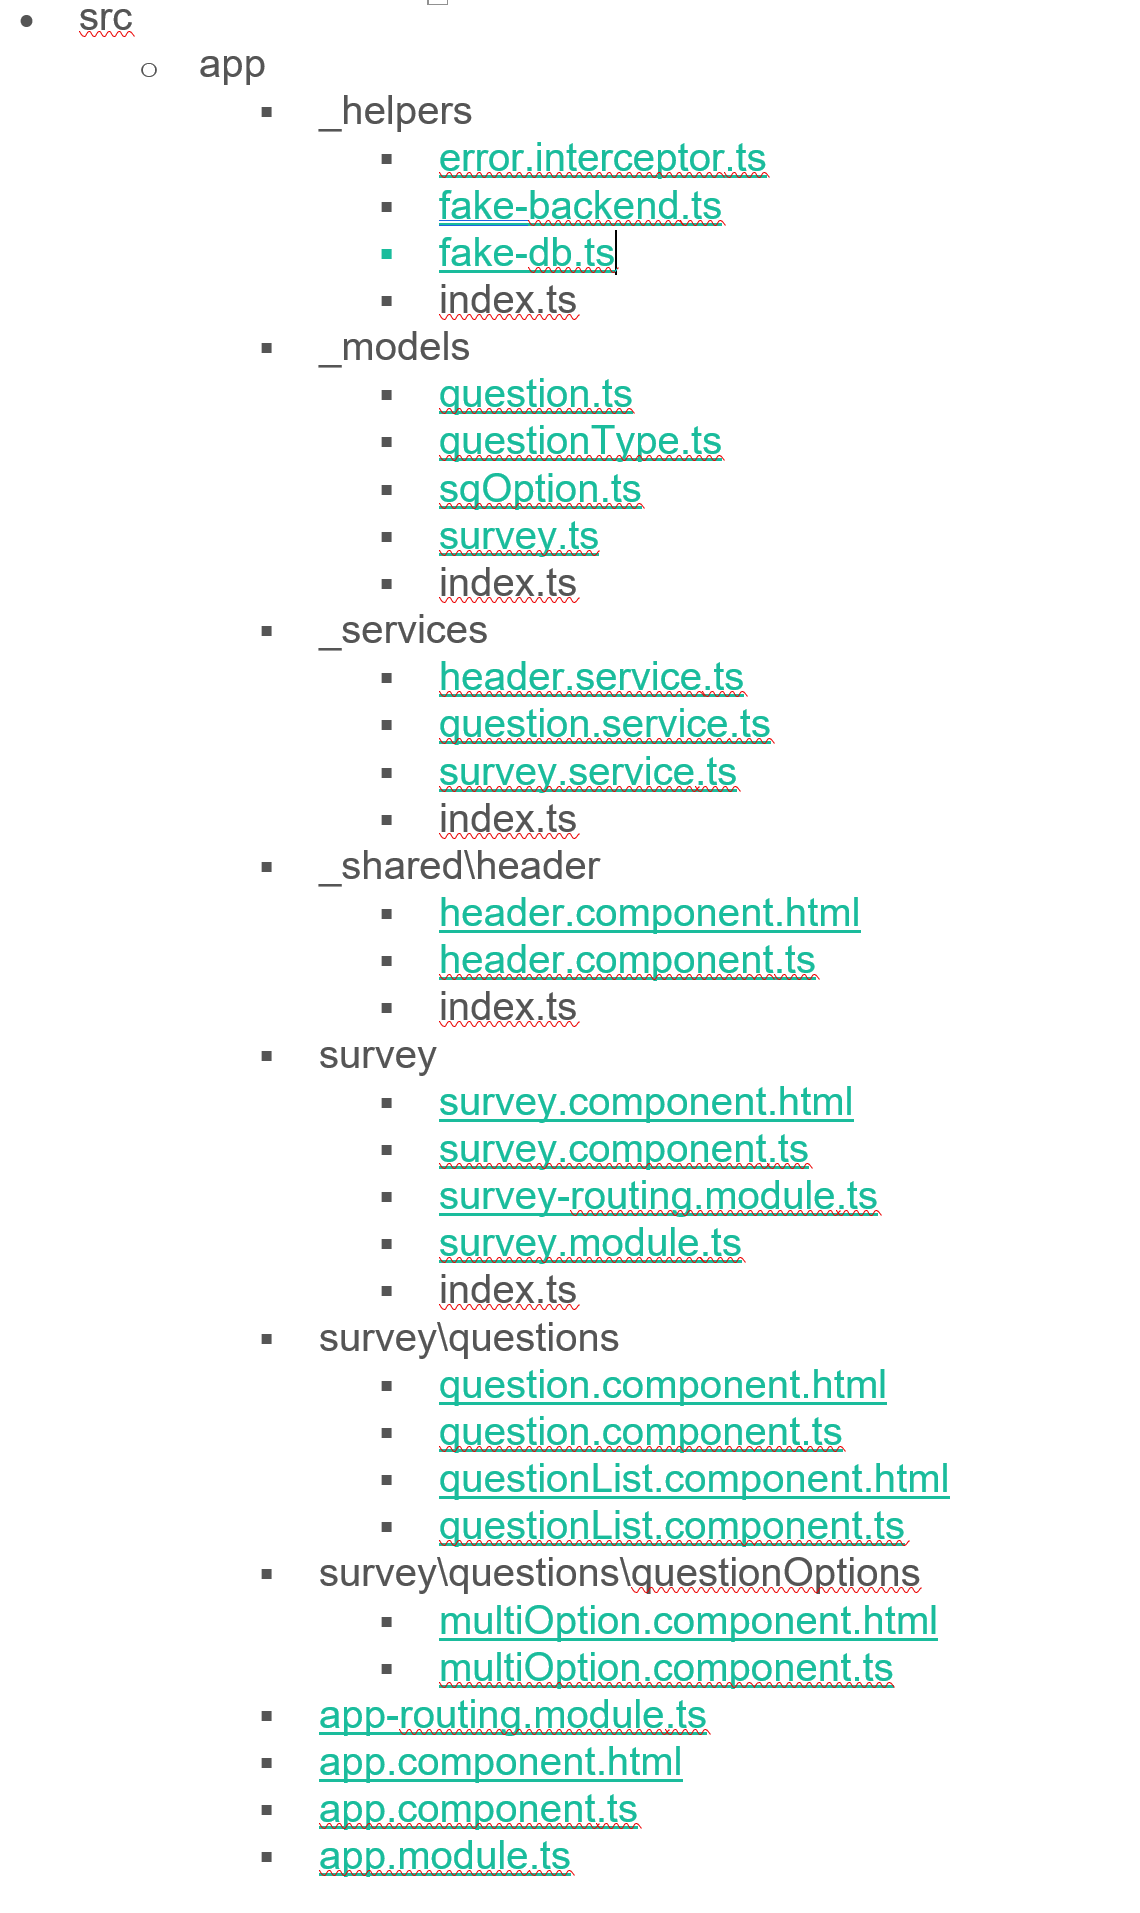
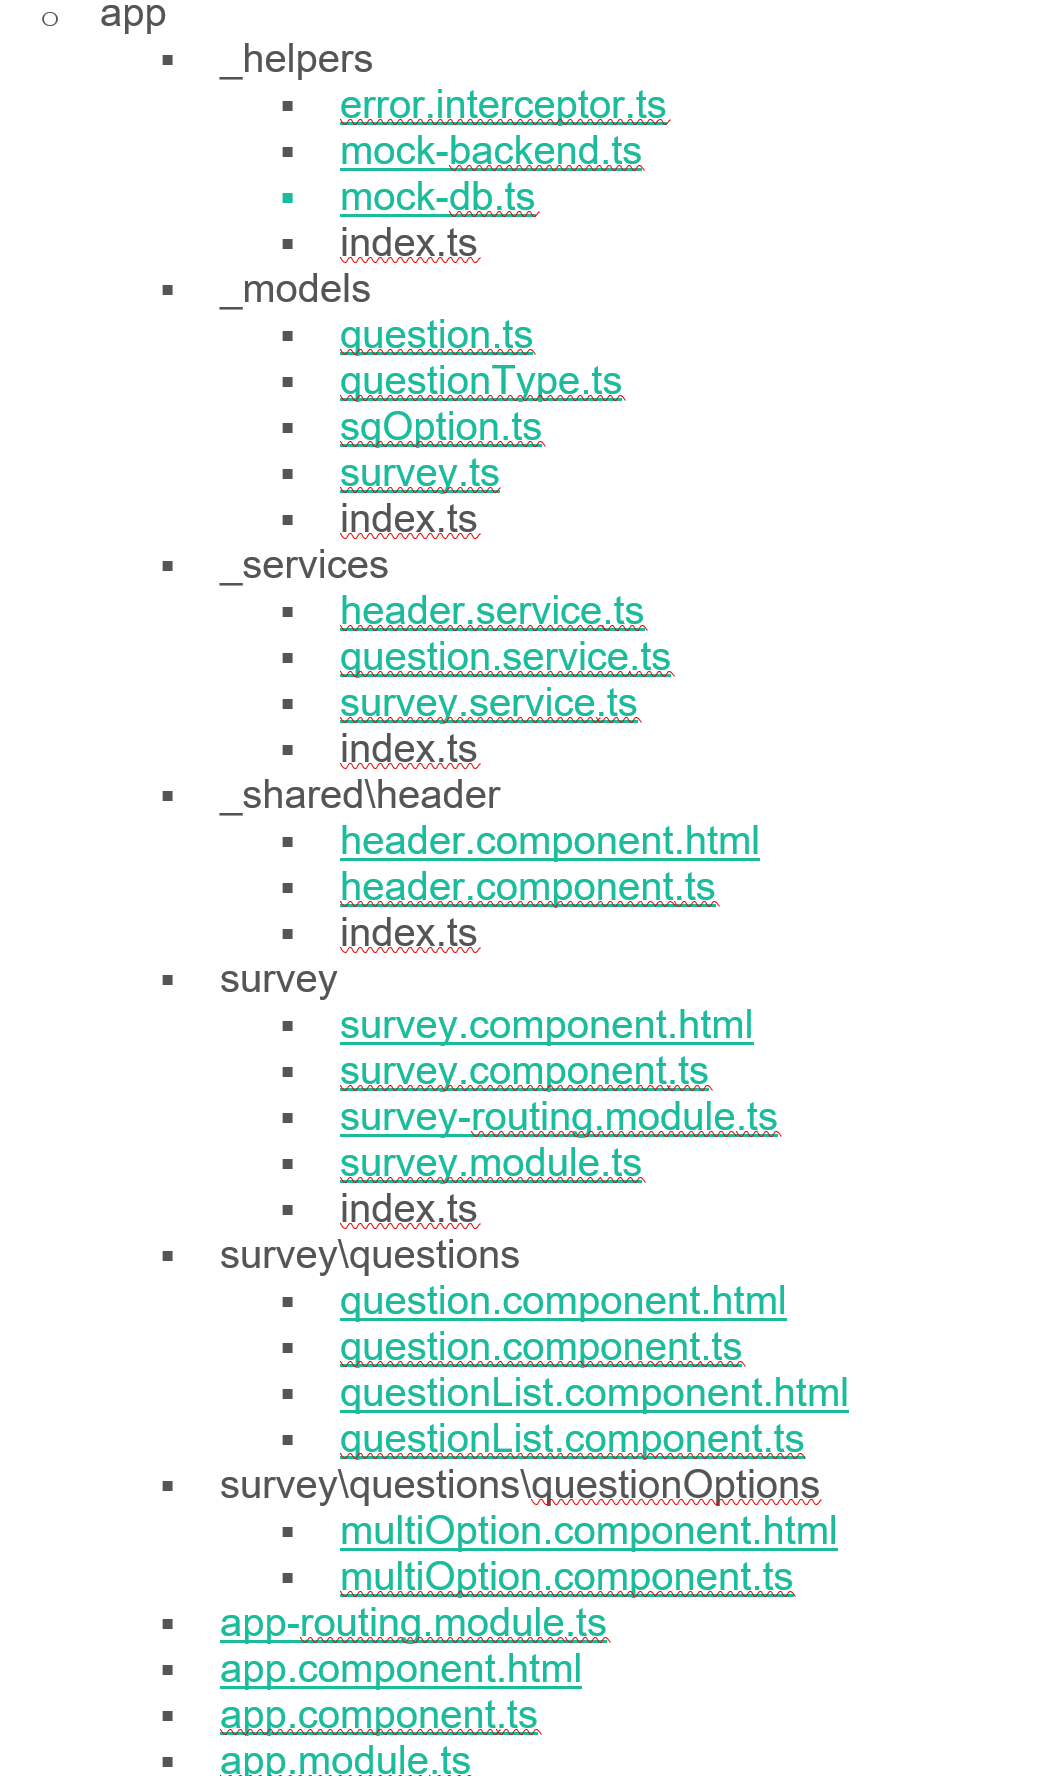
Updated the README.md

Changed region(s): [[0.1528, 0.031, 0.8252, 1.0], [0.0611, 0.0, 0.1528, 0.031], [0.1528, 0.991, 0.1834, 1.0]]

diff --git a/src/app/_helpers/mock-backend.ts b/src/app/_helpers/mock-backend.ts
@@ -3,10 +3,10 @@ import { HttpRequest, HttpResponse, HttpHandler, HttpEvent, HttpInterceptor, HTT
 import { BehaviorSubject, Observable, of, throwError } from 'rxjs';
 import { delay, materialize, dematerialize } from 'rxjs/operators';
 import { Survey, Question } from '@appmodels';
-import { questions, sqOptions, surveys } from './fake-db';
+import { questions, sqOptions, surveys } from './mock-db';
 
 @Injectable()
-export class FakeBackendInterceptor implements HttpInterceptor {
+export class MockBackendInterceptor implements HttpInterceptor {
     intercept(request: HttpRequest<any>, next: HttpHandler): Observable<HttpEvent<any>> {
         const { url, method, headers, body } = request;
 
@@ -59,9 +59,9 @@ export class FakeBackendInterceptor implements HttpInterceptor {
     }
 }
 
-export const fakeBackendProvider = {
+export const mockBackendProvider = {
     // use fake backend in place of Http service for backend-less development
     provide: HTTP_INTERCEPTORS,
-    useClass: FakeBackendInterceptor,
+    useClass: MockBackendInterceptor,
     multi: true
 };

diff --git a/src/app/app.module.ts b/src/app/app.module.ts
@@ -4,7 +4,7 @@ import { AppRoutingModule } from './app-routing.module';
 
 import { HttpClientModule, HTTP_INTERCEPTORS } from '@angular/common/http';
 // used to create fake backend
-import { fakeBackendProvider, ErrorInterceptor } from '@apphelpers';
+import { mockBackendProvider, ErrorInterceptor } from '@apphelpers';
 import { RouterModule } from '@angular/router';
 import { ReactiveFormsModule } from '@angular/forms';
 
@@ -33,7 +33,7 @@ import { NgbModule } from '@ng-bootstrap/ng-bootstrap';
         { provide: HTTP_INTERCEPTORS, useClass: ErrorInterceptor, multi: true },
 
         // provider used to create fake backend
-        fakeBackendProvider
+        mockBackendProvider
     ],
     bootstrap: [AppComponent]
 })

diff --git a/src/app/app-routing.module.ts b/src/app/app-routing.module.ts
@@ -9,8 +9,9 @@ const routes: Routes = [
     //{ path: ':id/:name', component: QuestionListComponent },
 
     //Instead of the following, I can easily uncomment the above line
-    //This was not required here since we just have 2 modules 
+    //This was not required here since we just have 2 components 
     //so its not going to make any major impact on the application
+    //I am assuming that in future when this application grows, we will use the lazy loading
     { path: ':id/:name', loadChildren: surveyModule },
 
     // otherwise redirect to home

diff --git a/src/app/survey/survey.component.ts b/src/app/survey/survey.component.ts
@@ -19,6 +19,10 @@ export class SurveyComponent implements OnInit, OnDestroy {
         this.headerTitleService.setTitle(this.pageTitle);
         this.getSurveys();
     }
+    
+    //Instead of using the publisher and subscriber method, 
+    //I can simply use promise which gives me result just 1 time and that's it. 
+    //No overhead of maintaining the subscription and worry about memory leaks
     ngOnDestroy() {
         // unsubscribe to avoid memory leaks
         this.subscriptions.unsubscribe();

diff --git a/src/app/_shared/header/header.component.ts b/src/app/_shared/header/header.component.ts
@@ -16,9 +16,6 @@ export class HeaderComponent implements OnInit, OnDestroy {
       });
   }
 
-  //Instead of using the publisher and subscriber method, 
-  //I can simply use promise which gives me result just 1 time and that's it. 
-  //No overhead of maintaining the subscription and worry about memory leaks
   ngOnDestroy() {
     // unsubscribe to avoid memory leaks
     this.titleSubscription.unsubscribe();

diff --git a/src/app/_helpers/index.ts b/src/app/_helpers/index.ts
@@ -1,2 +1,2 @@
 export * from './error.interceptor';
-export * from './fake-backend';
+export * from './mock-backend';

diff --git a/README.md b/README.md
@@ -2,10 +2,10 @@
 
 This project was generated with [Angular CLI](https://github.com/angular/angular-cli) version 11.1.2.
 
-## Fake backend API with READ routes
-The example app runs with a fake backend api by default to enable it to run completely in the browser without a real api, 
-the fake api contains routes for Survey, Questions and Answers Read operations and it uses fake-db.ts to get data. 
-To disable the fake backend you just have to remove fake backend provider from the app.module.ts file
+## Mock backend API with READ routes
+The example app runs with a mock backend api by default to enable it to run completely in the browser without a real api, 
+the mock api contains routes for Survey, Questions and Answers Read operations and it uses mock-db.ts to get data. 
+To disable the mock backend you just have to remove mock backend provider from the app.module.ts file
 
 ## Run the Compass Survey app Locally
 Install Node.js and npm from https://nodejs.org.
